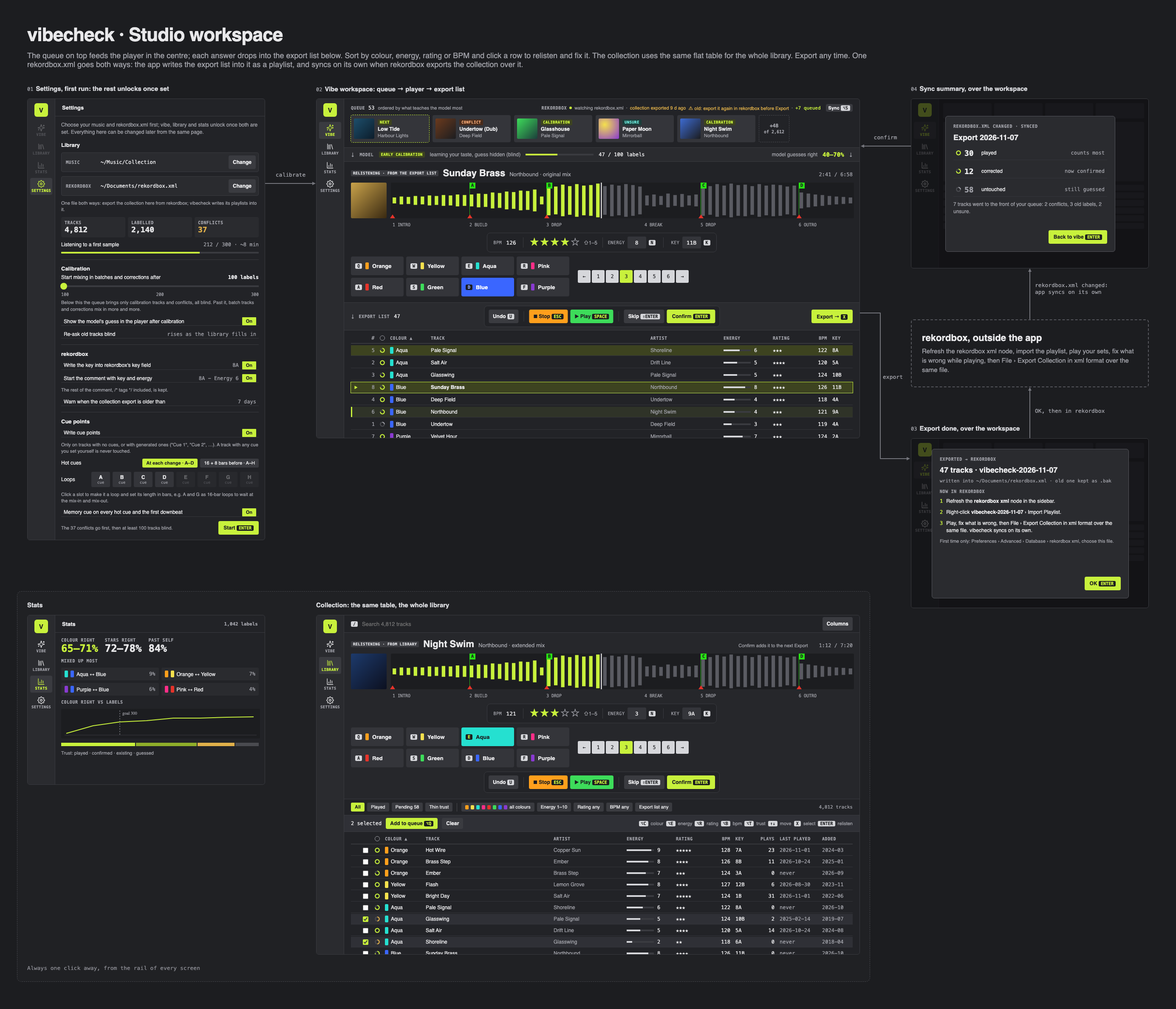
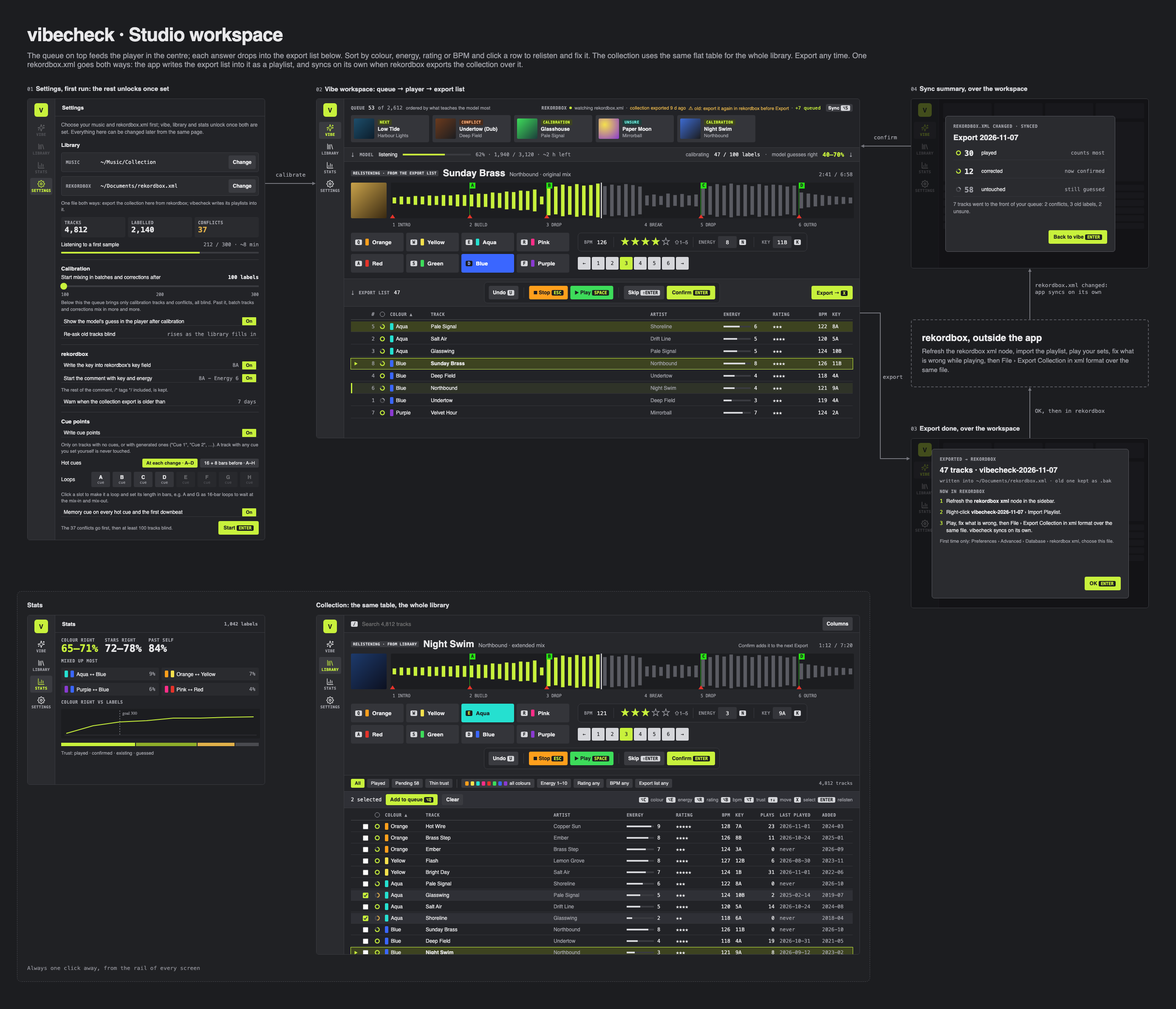
app: listening status line, meta tray beside keys, part labels fit
- model strip: background listening with bar, counts, time left; same line in console
- queue count in header (200 of N), +N box gone
- meta tray beside colour keys, parts below it
- part labels shrink to number or hide when too close
- queue card outlined only while in player

Changed region(s): [[0.2796, 0.6852, 0.7146, 0.9655], [0.2796, 0.218, 0.7457, 0.436]]

diff --git a/docs/ui/workspace.html b/docs/ui/workspace.html
@@ -160,18 +160,18 @@ a{color:#c8f13c}a:hover{color:#e0ff7a}
 <div class="main">
 
 <div style="padding: 12px 16px; border-bottom: 1px solid #3a3b40; display: flex; flex-direction: column; gap: 8px">
-<div style="display: flex; align-items: center; gap: 8px"><span class="lbl">Queue</span><span class="mono" style="font-size: 12px">53</span><span style="font-size: 11px; color: #a0a1a8">ordered by what teaches the model most</span><span style="margin-left: auto; display: flex; align-items: center; gap: 6px; font-size: 11px"><span class="lbl">rekordbox</span><span style="width: 6px; height: 6px; border-radius: 50%; background: #c8f13c"></span><span style="color: #a0a1a8">watching rekordbox.xml</span><span style="color: #a0a1a8">·</span><span style="color: #e0b04a">collection exported 9 d ago</span><span style="color: #e0b04a">⚠ old: export it again in rekordbox before Export</span><span style="color: #a0a1a8">·</span><span class="mono" style="color: #c8f13c">+7 queued</span><button class="btn" style="margin-left: 6px; min-height: 18px; padding: 1px 6px; font-size: 11px">Sync <span class="kbd">⌥S</span></button></span></div>
+<div style="display: flex; align-items: center; gap: 8px"><span class="lbl">Queue</span><span class="mono" style="font-size: 12px">53</span><span class="mono" style="font-size: 12px; color: #a0a1a8">of 2,612</span><span style="font-size: 11px; color: #a0a1a8">ordered by what teaches the model most</span><span style="margin-left: auto; display: flex; align-items: center; gap: 6px; font-size: 11px"><span class="lbl">rekordbox</span><span style="width: 6px; height: 6px; border-radius: 50%; background: #c8f13c"></span><span style="color: #a0a1a8">watching rekordbox.xml</span><span style="color: #a0a1a8">·</span><span style="color: #e0b04a">collection exported 9 d ago</span><span style="color: #e0b04a">⚠ old: export it again in rekordbox before Export</span><span style="color: #a0a1a8">·</span><span class="mono" style="color: #c8f13c">+7 queued</span><button class="btn" style="margin-left: 6px; min-height: 18px; padding: 1px 6px; font-size: 11px">Sync <span class="kbd">⌥S</span></button></span></div>
 <div style="display: flex; gap: 8px">
-<div class="q qc" style="outline: 1px dashed #c8f13c"><div class="cov" style="background: linear-gradient(135deg, #1d4e6b, #0c1d2b)"></div><div class="qt"><span class="tag t-cal" style="align-self: flex-start">next</span><span class="qn">Low Tide</span><span class="qa">Harbour Lights</span></div></div>
+<div class="q qc"><div class="cov" style="background: linear-gradient(135deg, #1d4e6b, #0c1d2b)"></div><div class="qt"><span class="tag t-cal" style="align-self: flex-start">next</span><span class="qn">Low Tide</span><span class="qa">Harbour Lights</span></div></div>
 <div class="q qc"><div class="cov" style="background: linear-gradient(135deg, #6b3a1d, #1c1d20)"></div><div class="qt"><span class="tag t-con" style="align-self: flex-start">conflict</span><span class="qn">Undertow (Dub)</span><span class="qa">Deep Field</span></div></div>
 <div class="q qc"><div class="cov" style="background: linear-gradient(135deg, #3ddc5a, #1c3e3b)"></div><div class="qt"><span class="tag t-cal" style="align-self: flex-start">calibration</span><span class="qn">Glasshouse</span><span class="qa">Pale Signal</span></div></div>
 <div class="q qc"><div class="cov" style="background: radial-gradient(circle at 30% 30%, #f4e04d, #8a3ad1)"></div><div class="qt"><span class="tag t-uns" style="align-self: flex-start">unsure</span><span class="qn">Paper Moon</span><span class="qa">Mirrorball</span></div></div>
 <div class="q qc"><div class="cov" style="background: linear-gradient(135deg, #3d6bd1, #1c1d20)"></div><div class="qt"><span class="tag t-cal" style="align-self: flex-start">calibration</span><span class="qn">Night Swim</span><span class="qa">Northbound</span></div></div>
-<div class="q" style="width: 72px; align-items: center; justify-content: center; background: #222327; border: 1px dashed #4a4b50; color: #a0a1a8; flex-direction: column; line-height: 1.3">+48<span class="mono" style="font-size: 10px">of 2,612</span></div>
+
 </div>
 </div>
 
-<div style="padding: 8px 16px; border-bottom: 1px solid #3a3b40; display: flex; align-items: center; gap: 12px; background: #2a2b2f"><span style="font-size: 13px; color: #a0a1a8">↓</span><span class="lbl">Model</span><span class="tag t-cal">early calibration</span><span style="font-size: 12px; color: #a0a1a8">learning your taste, guess hidden (blind)</span><div style="width: 160px; height: 4px; background: #3a3b40; display: flex"><div style="width: 47%; background: #c8f13c"></div></div><span class="mono" style="font-size: 12px">47 / 100 labels</span><span style="font-size: 12px; color: #a0a1a8; margin-left: auto">model guesses right</span><b class="mono" style="font-size: 14px; color: #c8f13c">40–70%</b><span style="font-size: 13px; color: #a0a1a8">↓</span></div>
+<div style="padding: 8px 16px; border-bottom: 1px solid #3a3b40; display: flex; align-items: center; gap: 12px; background: #2a2b2f"><span style="font-size: 13px; color: #a0a1a8">↓</span><span class="lbl">Model</span><span style="font-size: 12px">listening</span><div style="width: 160px; height: 4px; background: #3a3b40; display: flex"><div style="width: 62%; background: #c8f13c"></div></div><span class="mono" style="font-size: 12px; color: #a0a1a8">62% · 1,940 / 3,120 · ~2 h left</span><span style="font-size: 12px; color: #a0a1a8; margin-left: auto">calibrating</span><span class="mono" style="font-size: 12px">47 / 100 labels</span><span style="font-size: 12px; color: #a0a1a8">·</span><span style="font-size: 12px; color: #a0a1a8">model guesses right</span><b class="mono" style="font-size: 14px; color: #c8f13c">40–70%</b><span style="font-size: 13px; color: #a0a1a8">↓</span></div>
 
 <div style="padding: 14px 16px; display: flex; flex-direction: column; gap: 10px; border-bottom: 1px solid #3a3b40">
 <div style="display: flex; align-items: baseline; gap: 10px"><span class="tag t-re" style="align-self: center">relistening · from the export list</span><span style="font-size: 22px; font-weight: 800">Sunday Brass</span><span style="font-size: 13px; color: #a0a1a8">Northbound · original mix</span><span class="mono" style="font-size: 12px; color: #a0a1a8; margin-left: auto">2:41 / 6:58</span></div>
@@ -179,7 +179,6 @@ a{color:#c8f13c}a:hover{color:#e0ff7a}
 <div style="position: relative"><svg width="1090" height="84" viewBox="0 0 528 72" preserveAspectRatio="none" role="img" aria-label="Waveform, playhead in the first drop" style="display: block; background: #1c1d20; border-radius: 3px"><path d="M4 30V42M12 28V44M20 29V43M28 27V45M36 28V44M44 26V46M52 27V45M60 25V47M68 26V46M76 24V48M84 25V47M92 24V48M100 22V50M108 23V49M116 20V52M124 21V51M132 18V54M140 19V53M148 16V56M156 17V55M164 14V58M172 28V44M180 6V66M188 8V64M196 4V68M204 7V65M212 3V69M220 6V66M228 5V67M236 2V70" stroke="#c8f13c" stroke-width="4"/><path d="M244 7V65M252 4V68M260 6V66M268 3V69M276 5V67M284 8V64M292 26V46M300 24V48M308 27V45M316 22V50M324 25V47M332 23V49M340 26V46M348 24V48M356 5V67M364 7V65M372 3V69M380 6V66M388 2V70M396 5V67M404 4V68M412 7V65M420 3V69M428 6V66M436 4V68M444 5V67M452 8V64M460 6V66M468 20V52M476 22V50M484 24V48M492 25V47M500 27V45M508 28V44M516 29V43M524 30V42" stroke="#5a5b62" stroke-width="4"/><path d="M240 0V72" stroke="#ffffff" stroke-width="1"/><path d="M0 0V72M88 0V72M176 0V72M288 0V72M352 0V72M464 0V72" stroke="#1c1d20" stroke-width="1"/></svg><div aria-label="Cue points" style="position: absolute; inset: 0; pointer-events: none"><span style="position: absolute; left: -2px; top: 75px; width: 0; height: 0; border-left: 6px solid transparent; border-right: 6px solid transparent; border-bottom: 9px solid #e5332a"></span><span style="position: absolute; left: 185px; top: 14px; width: 1px; height: 70px; background: rgba(40,226,20,.8)"></span><span style="position: absolute; left: 185px; top: 0; width: 14px; height: 14px; background: #28e214; color: #1c1d20; font: 600 11px 'IBM Plex Mono', monospace; line-height: 14px; text-align: center">A</span><span style="position: absolute; left: 180px; top: 75px; width: 0; height: 0; border-left: 6px solid transparent; border-right: 6px solid transparent; border-bottom: 9px solid #e5332a"></span><span style="position: absolute; left: 366px; top: 14px; width: 1px; height: 70px; background: rgba(40,226,20,.8)"></span><span style="position: absolute; left: 366px; top: 0; width: 14px; height: 14px; background: #28e214; color: #1c1d20; font: 600 11px 'IBM Plex Mono', monospace; line-height: 14px; text-align: center">B</span><span style="position: absolute; left: 361px; top: 75px; width: 0; height: 0; border-left: 6px solid transparent; border-right: 6px solid transparent; border-bottom: 9px solid #e5332a"></span><span style="position: absolute; left: 729px; top: 14px; width: 1px; height: 70px; background: rgba(40,226,20,.8)"></span><span style="position: absolute; left: 729px; top: 0; width: 14px; height: 14px; background: #28e214; color: #1c1d20; font: 600 11px 'IBM Plex Mono', monospace; line-height: 14px; text-align: center">C</span><span style="position: absolute; left: 724px; top: 75px; width: 0; height: 0; border-left: 6px solid transparent; border-right: 6px solid transparent; border-bottom: 9px solid #e5332a"></span><span style="position: absolute; left: 960px; top: 14px; width: 1px; height: 70px; background: rgba(40,226,20,.8)"></span><span style="position: absolute; left: 960px; top: 0; width: 14px; height: 14px; background: #28e214; color: #1c1d20; font: 600 11px 'IBM Plex Mono', monospace; line-height: 14px; text-align: center">D</span><span style="position: absolute; left: 955px; top: 75px; width: 0; height: 0; border-left: 6px solid transparent; border-right: 6px solid transparent; border-bottom: 9px solid #e5332a"></span></div></div>
 <div class="mono" style="position: relative; height: 14px; font-size: 10px; color: #a0a1a8"><span style="position: absolute; left: 4px">1 INTRO</span><span style="position: absolute; left: 185px">2 BUILD</span><span style="position: absolute; left: 366px">3 DROP</span><span style="position: absolute; left: 597px">4 BREAK</span><span style="position: absolute; left: 729px">5 DROP</span><span style="position: absolute; left: 960px">6 OUTRO</span></div>
 </div></div>
-<div style="display: flex; justify-content: center"><div style="display: inline-flex; align-items: center; padding: 8px 14px; background: #222327; border: 1px solid #3a3b40; border-radius: 8px"><div style="display: flex; align-items: center; gap: 4px"><span style="font: 500 10px 'IBM Plex Mono', monospace; letter-spacing: .06em; color: #a0a1a8">BPM</span><span class="mono" style="font-size: 13px; margin-left: 6px">126</span><span style="width: 1px; height: 24px; background: #3a3b40; margin: 0 12px"></span><span style="font-size: 20px; line-height: 1; color: #c8f13c">★</span><span style="font-size: 20px; line-height: 1; color: #c8f13c">★</span><span style="font-size: 20px; line-height: 1; color: #c8f13c">★</span><span style="font-size: 20px; line-height: 1; color: #c8f13c">★</span><span style="font-size: 20px; line-height: 1; color: #a0a1a8">☆</span><span style="font-size: 12px; color: #a0a1a8; margin-left: 6px">⇧1–5</span></div><span style="width: 1px; height: 24px; background: #3a3b40; margin: 0 12px"></span><div style="display: flex; align-items: center; gap: 6px"><span style="font: 500 10px 'IBM Plex Mono', monospace; letter-spacing: .06em; color: #a0a1a8">ENERGY</span><span class="mono" style="display: inline-flex; align-items: center; justify-content: center; min-width: 44px; height: 28px; border-radius: 3px; background: #34353a; font-size: 13px">8</span><span class="kbd">N</span><span style="width: 1px; height: 24px; background: #3a3b40; margin: 0 12px"></span><span style="font: 500 10px 'IBM Plex Mono', monospace; letter-spacing: .06em; color: #a0a1a8">KEY</span><span class="mono" style="display: inline-flex; align-items: center; justify-content: center; min-width: 44px; height: 28px; border-radius: 3px; background: #34353a; font-size: 13px">11B</span><span class="kbd">K</span></div></div></div>
 <div style="display: flex; gap: 20px; align-items: flex-start">
 <div style="display: grid; grid-template-columns: repeat(4, 124px); gap: 6px">
 <div class="key"><span class="kbd">Q</span><span class="dot" style="background: #ff9f1c"></span>Orange</div>
@@ -191,7 +190,7 @@ a{color:#c8f13c}a:hover{color:#e0ff7a}
 <div class="key" style="background: #3a66ff; color: #ffffff"><span class="kbdd" style="color: #8fa8ff">D</span>Blue</div>
 <div class="key"><span class="kbd">F</span><span class="dot" style="background: #8a3ad1"></span>Purple</div>
 </div>
-<div style="flex: 1; display: flex; align-items: center; align-self: center"><span style="display: inline-flex; gap: 3px; margin: 0"><span style="display: inline-flex; align-items: center; justify-content: center; width: 30px; height: 30px; border-radius: 3px; font: 500 12px 'IBM Plex Mono', monospace; color: #1c1d20; background: #d6d7db">←</span><span style="display: inline-flex; align-items: center; justify-content: center; width: 30px; height: 30px; border-radius: 3px; font: 500 12px 'IBM Plex Mono', monospace; color: #1c1d20; background: #d6d7db">1</span><span style="display: inline-flex; align-items: center; justify-content: center; width: 30px; height: 30px; border-radius: 3px; font: 500 12px 'IBM Plex Mono', monospace; color: #1c1d20; background: #d6d7db">2</span><span style="display: inline-flex; align-items: center; justify-content: center; width: 30px; height: 30px; border-radius: 3px; font: 500 12px 'IBM Plex Mono', monospace; color: #1c1d20; background: #c8f13c">3</span><span style="display: inline-flex; align-items: center; justify-content: center; width: 30px; height: 30px; border-radius: 3px; font: 500 12px 'IBM Plex Mono', monospace; color: #1c1d20; background: #d6d7db">4</span><span style="display: inline-flex; align-items: center; justify-content: center; width: 30px; height: 30px; border-radius: 3px; font: 500 12px 'IBM Plex Mono', monospace; color: #1c1d20; background: #d6d7db">5</span><span style="display: inline-flex; align-items: center; justify-content: center; width: 30px; height: 30px; border-radius: 3px; font: 500 12px 'IBM Plex Mono', monospace; color: #1c1d20; background: #d6d7db">6</span><span style="display: inline-flex; align-items: center; justify-content: center; width: 30px; height: 30px; border-radius: 3px; font: 500 12px 'IBM Plex Mono', monospace; color: #1c1d20; background: #d6d7db">→</span></span></div>
+<div style="display: flex; flex-direction: column; gap: 6px"><div style="height: 44px; display: flex; align-items: center"><div style="display: inline-flex; align-items: center; box-sizing: border-box; height: 44px; padding: 0 14px; background: #222327; border: 1px solid #3a3b40; border-radius: 8px"><div style="display: flex; align-items: center; gap: 4px"><span style="font: 500 10px 'IBM Plex Mono', monospace; letter-spacing: .06em; color: #a0a1a8">BPM</span><span class="mono" style="font-size: 13px; margin-left: 6px">126</span><span style="width: 1px; height: 24px; background: #3a3b40; margin: 0 12px"></span><span style="font-size: 20px; line-height: 1; color: #c8f13c">★</span><span style="font-size: 20px; line-height: 1; color: #c8f13c">★</span><span style="font-size: 20px; line-height: 1; color: #c8f13c">★</span><span style="font-size: 20px; line-height: 1; color: #c8f13c">★</span><span style="font-size: 20px; line-height: 1; color: #a0a1a8">☆</span><span style="font-size: 12px; color: #a0a1a8; margin-left: 6px">⇧1–5</span></div><span style="width: 1px; height: 24px; background: #3a3b40; margin: 0 12px"></span><div style="display: flex; align-items: center; gap: 6px"><span style="font: 500 10px 'IBM Plex Mono', monospace; letter-spacing: .06em; color: #a0a1a8">ENERGY</span><span class="mono" style="display: inline-flex; align-items: center; justify-content: center; min-width: 44px; height: 28px; border-radius: 3px; background: #34353a; font-size: 13px">8</span><span class="kbd">N</span><span style="width: 1px; height: 24px; background: #3a3b40; margin: 0 12px"></span><span style="font: 500 10px 'IBM Plex Mono', monospace; letter-spacing: .06em; color: #a0a1a8">KEY</span><span class="mono" style="display: inline-flex; align-items: center; justify-content: center; min-width: 44px; height: 28px; border-radius: 3px; background: #34353a; font-size: 13px">11B</span><span class="kbd">K</span></div></div></div><div style="height: 44px; display: flex; align-items: center"><span style="display: inline-flex; gap: 3px; margin: 0"><span style="display: inline-flex; align-items: center; justify-content: center; width: 30px; height: 30px; border-radius: 3px; font: 500 12px 'IBM Plex Mono', monospace; color: #1c1d20; background: #d6d7db">←</span><span style="display: inline-flex; align-items: center; justify-content: center; width: 30px; height: 30px; border-radius: 3px; font: 500 12px 'IBM Plex Mono', monospace; color: #1c1d20; background: #d6d7db">1</span><span style="display: inline-flex; align-items: center; justify-content: center; width: 30px; height: 30px; border-radius: 3px; font: 500 12px 'IBM Plex Mono', monospace; color: #1c1d20; background: #d6d7db">2</span><span style="display: inline-flex; align-items: center; justify-content: center; width: 30px; height: 30px; border-radius: 3px; font: 500 12px 'IBM Plex Mono', monospace; color: #1c1d20; background: #c8f13c">3</span><span style="display: inline-flex; align-items: center; justify-content: center; width: 30px; height: 30px; border-radius: 3px; font: 500 12px 'IBM Plex Mono', monospace; color: #1c1d20; background: #d6d7db">4</span><span style="display: inline-flex; align-items: center; justify-content: center; width: 30px; height: 30px; border-radius: 3px; font: 500 12px 'IBM Plex Mono', monospace; color: #1c1d20; background: #d6d7db">5</span><span style="display: inline-flex; align-items: center; justify-content: center; width: 30px; height: 30px; border-radius: 3px; font: 500 12px 'IBM Plex Mono', monospace; color: #1c1d20; background: #d6d7db">6</span><span style="display: inline-flex; align-items: center; justify-content: center; width: 30px; height: 30px; border-radius: 3px; font: 500 12px 'IBM Plex Mono', monospace; color: #1c1d20; background: #d6d7db">→</span></span></div></div>
 </div>
 </div>
 
@@ -290,7 +289,6 @@ a{color:#c8f13c}a:hover{color:#e0ff7a}
 <div style="position: relative"><svg width="1090" height="84" viewBox="0 0 528 72" preserveAspectRatio="none" role="img" aria-label="Waveform of Night Swim" style="display: block; background: #1c1d20; border-radius: 3px"><path d="M4 30V42M12 28V44M20 29V43M28 27V45M36 28V44M44 26V46M52 27V45M60 25V47M68 26V46M76 24V48M84 25V47M92 24V48M100 22V50M108 23V49M116 20V52M124 21V51M132 18V54M140 19V53M148 16V56M156 17V55M164 14V58M172 28V44M180 6V66M188 8V64M196 4V68M204 7V65M212 3V69M220 6V66M228 5V67M236 2V70" stroke="#c8f13c" stroke-width="4"/><path d="M244 7V65M252 4V68M260 6V66M268 3V69M276 5V67M284 8V64M292 26V46M300 24V48M308 27V45M316 22V50M324 25V47M332 23V49M340 26V46M348 24V48M356 5V67M364 7V65M372 3V69M380 6V66M388 2V70M396 5V67M404 4V68M412 7V65M420 3V69M428 6V66M436 4V68M444 5V67M452 8V64M460 6V66M468 20V52M476 22V50M484 24V48M492 25V47M500 27V45M508 28V44M516 29V43M524 30V42" stroke="#5a5b62" stroke-width="4"/><path d="M240 0V72" stroke="#ffffff" stroke-width="1"/><path d="M0 0V72M88 0V72M176 0V72M288 0V72M352 0V72M464 0V72" stroke="#1c1d20" stroke-width="1"/></svg><div aria-label="Cue points" style="position: absolute; inset: 0; pointer-events: none"><span style="position: absolute; left: -2px; top: 75px; width: 0; height: 0; border-left: 6px solid transparent; border-right: 6px solid transparent; border-bottom: 9px solid #e5332a"></span><span style="position: absolute; left: 185px; top: 14px; width: 1px; height: 70px; background: rgba(40,226,20,.8)"></span><span style="position: absolute; left: 185px; top: 0; width: 14px; height: 14px; background: #28e214; color: #1c1d20; font: 600 11px 'IBM Plex Mono', monospace; line-height: 14px; text-align: center">A</span><span style="position: absolute; left: 180px; top: 75px; width: 0; height: 0; border-left: 6px solid transparent; border-right: 6px solid transparent; border-bottom: 9px solid #e5332a"></span><span style="position: absolute; left: 366px; top: 14px; width: 1px; height: 70px; background: rgba(40,226,20,.8)"></span><span style="position: absolute; left: 366px; top: 0; width: 14px; height: 14px; background: #28e214; color: #1c1d20; font: 600 11px 'IBM Plex Mono', monospace; line-height: 14px; text-align: center">B</span><span style="position: absolute; left: 361px; top: 75px; width: 0; height: 0; border-left: 6px solid transparent; border-right: 6px solid transparent; border-bottom: 9px solid #e5332a"></span><span style="position: absolute; left: 729px; top: 14px; width: 1px; height: 70px; background: rgba(40,226,20,.8)"></span><span style="position: absolute; left: 729px; top: 0; width: 14px; height: 14px; background: #28e214; color: #1c1d20; font: 600 11px 'IBM Plex Mono', monospace; line-height: 14px; text-align: center">C</span><span style="position: absolute; left: 724px; top: 75px; width: 0; height: 0; border-left: 6px solid transparent; border-right: 6px solid transparent; border-bottom: 9px solid #e5332a"></span><span style="position: absolute; left: 960px; top: 14px; width: 1px; height: 70px; background: rgba(40,226,20,.8)"></span><span style="position: absolute; left: 960px; top: 0; width: 14px; height: 14px; background: #28e214; color: #1c1d20; font: 600 11px 'IBM Plex Mono', monospace; line-height: 14px; text-align: center">D</span><span style="position: absolute; left: 955px; top: 75px; width: 0; height: 0; border-left: 6px solid transparent; border-right: 6px solid transparent; border-bottom: 9px solid #e5332a"></span></div></div>
 <div class="mono" style="position: relative; height: 14px; font-size: 10px; color: #a0a1a8"><span style="position: absolute; left: 4px">1 INTRO</span><span style="position: absolute; left: 185px">2 BUILD</span><span style="position: absolute; left: 366px">3 DROP</span><span style="position: absolute; left: 597px">4 BREAK</span><span style="position: absolute; left: 729px">5 DROP</span><span style="position: absolute; left: 960px">6 OUTRO</span></div>
 </div></div>
-<div style="display: flex; justify-content: center"><div style="display: inline-flex; align-items: center; padding: 8px 14px; background: #222327; border: 1px solid #3a3b40; border-radius: 8px"><div style="display: flex; align-items: center; gap: 4px"><span style="font: 500 10px 'IBM Plex Mono', monospace; letter-spacing: .06em; color: #a0a1a8">BPM</span><span class="mono" style="font-size: 13px; margin-left: 6px">121</span><span style="width: 1px; height: 24px; background: #3a3b40; margin: 0 12px"></span><span style="font-size: 20px; line-height: 1; color: #c8f13c">★</span><span style="font-size: 20px; line-height: 1; color: #c8f13c">★</span><span style="font-size: 20px; line-height: 1; color: #c8f13c">★</span><span style="font-size: 20px; line-height: 1; color: #a0a1a8">☆</span><span style="font-size: 20px; line-height: 1; color: #a0a1a8">☆</span><span style="font-size: 12px; color: #a0a1a8; margin-left: 6px">⇧1–5</span></div><span style="width: 1px; height: 24px; background: #3a3b40; margin: 0 12px"></span><div style="display: flex; align-items: center; gap: 6px"><span style="font: 500 10px 'IBM Plex Mono', monospace; letter-spacing: .06em; color: #a0a1a8">ENERGY</span><span class="mono" style="display: inline-flex; align-items: center; justify-content: center; min-width: 44px; height: 28px; border-radius: 3px; background: #34353a; font-size: 13px">3</span><span class="kbd">N</span><span style="width: 1px; height: 24px; background: #3a3b40; margin: 0 12px"></span><span style="font: 500 10px 'IBM Plex Mono', monospace; letter-spacing: .06em; color: #a0a1a8">KEY</span><span class="mono" style="display: inline-flex; align-items: center; justify-content: center; min-width: 44px; height: 28px; border-radius: 3px; background: #34353a; font-size: 13px">9A</span><span class="kbd">K</span></div></div></div>
 <div style="display: flex; gap: 20px; align-items: flex-start">
 <div style="display: grid; grid-template-columns: repeat(4, 124px); gap: 6px">
 <div class="key"><span class="kbd">Q</span><span class="dot" style="background: #ff9f1c"></span>Orange</div>
@@ -302,7 +300,7 @@ a{color:#c8f13c}a:hover{color:#e0ff7a}
 <div class="key"><span class="kbd">D</span><span class="dot" style="background: #3a66ff"></span>Blue</div>
 <div class="key"><span class="kbd">F</span><span class="dot" style="background: #8a3ad1"></span>Purple</div>
 </div>
-<div style="flex: 1; display: flex; align-items: center; align-self: center"><span style="display: inline-flex; gap: 3px; margin: 0"><span style="display: inline-flex; align-items: center; justify-content: center; width: 30px; height: 30px; border-radius: 3px; font: 500 12px 'IBM Plex Mono', monospace; color: #1c1d20; background: #d6d7db">←</span><span style="display: inline-flex; align-items: center; justify-content: center; width: 30px; height: 30px; border-radius: 3px; font: 500 12px 'IBM Plex Mono', monospace; color: #1c1d20; background: #d6d7db">1</span><span style="display: inline-flex; align-items: center; justify-content: center; width: 30px; height: 30px; border-radius: 3px; font: 500 12px 'IBM Plex Mono', monospace; color: #1c1d20; background: #d6d7db">2</span><span style="display: inline-flex; align-items: center; justify-content: center; width: 30px; height: 30px; border-radius: 3px; font: 500 12px 'IBM Plex Mono', monospace; color: #1c1d20; background: #c8f13c">3</span><span style="display: inline-flex; align-items: center; justify-content: center; width: 30px; height: 30px; border-radius: 3px; font: 500 12px 'IBM Plex Mono', monospace; color: #1c1d20; background: #d6d7db">4</span><span style="display: inline-flex; align-items: center; justify-content: center; width: 30px; height: 30px; border-radius: 3px; font: 500 12px 'IBM Plex Mono', monospace; color: #1c1d20; background: #d6d7db">5</span><span style="display: inline-flex; align-items: center; justify-content: center; width: 30px; height: 30px; border-radius: 3px; font: 500 12px 'IBM Plex Mono', monospace; color: #1c1d20; background: #d6d7db">6</span><span style="display: inline-flex; align-items: center; justify-content: center; width: 30px; height: 30px; border-radius: 3px; font: 500 12px 'IBM Plex Mono', monospace; color: #1c1d20; background: #d6d7db">→</span></span></div>
+<div style="display: flex; flex-direction: column; gap: 6px"><div style="height: 44px; display: flex; align-items: center"><div style="display: inline-flex; align-items: center; box-sizing: border-box; height: 44px; padding: 0 14px; background: #222327; border: 1px solid #3a3b40; border-radius: 8px"><div style="display: flex; align-items: center; gap: 4px"><span style="font: 500 10px 'IBM Plex Mono', monospace; letter-spacing: .06em; color: #a0a1a8">BPM</span><span class="mono" style="font-size: 13px; margin-left: 6px">121</span><span style="width: 1px; height: 24px; background: #3a3b40; margin: 0 12px"></span><span style="font-size: 20px; line-height: 1; color: #c8f13c">★</span><span style="font-size: 20px; line-height: 1; color: #c8f13c">★</span><span style="font-size: 20px; line-height: 1; color: #c8f13c">★</span><span style="font-size: 20px; line-height: 1; color: #a0a1a8">☆</span><span style="font-size: 20px; line-height: 1; color: #a0a1a8">☆</span><span style="font-size: 12px; color: #a0a1a8; margin-left: 6px">⇧1–5</span></div><span style="width: 1px; height: 24px; background: #3a3b40; margin: 0 12px"></span><div style="display: flex; align-items: center; gap: 6px"><span style="font: 500 10px 'IBM Plex Mono', monospace; letter-spacing: .06em; color: #a0a1a8">ENERGY</span><span class="mono" style="display: inline-flex; align-items: center; justify-content: center; min-width: 44px; height: 28px; border-radius: 3px; background: #34353a; font-size: 13px">3</span><span class="kbd">N</span><span style="width: 1px; height: 24px; background: #3a3b40; margin: 0 12px"></span><span style="font: 500 10px 'IBM Plex Mono', monospace; letter-spacing: .06em; color: #a0a1a8">KEY</span><span class="mono" style="display: inline-flex; align-items: center; justify-content: center; min-width: 44px; height: 28px; border-radius: 3px; background: #34353a; font-size: 13px">9A</span><span class="kbd">K</span></div></div></div><div style="height: 44px; display: flex; align-items: center"><span style="display: inline-flex; gap: 3px; margin: 0"><span style="display: inline-flex; align-items: center; justify-content: center; width: 30px; height: 30px; border-radius: 3px; font: 500 12px 'IBM Plex Mono', monospace; color: #1c1d20; background: #d6d7db">←</span><span style="display: inline-flex; align-items: center; justify-content: center; width: 30px; height: 30px; border-radius: 3px; font: 500 12px 'IBM Plex Mono', monospace; color: #1c1d20; background: #d6d7db">1</span><span style="display: inline-flex; align-items: center; justify-content: center; width: 30px; height: 30px; border-radius: 3px; font: 500 12px 'IBM Plex Mono', monospace; color: #1c1d20; background: #d6d7db">2</span><span style="display: inline-flex; align-items: center; justify-content: center; width: 30px; height: 30px; border-radius: 3px; font: 500 12px 'IBM Plex Mono', monospace; color: #1c1d20; background: #c8f13c">3</span><span style="display: inline-flex; align-items: center; justify-content: center; width: 30px; height: 30px; border-radius: 3px; font: 500 12px 'IBM Plex Mono', monospace; color: #1c1d20; background: #d6d7db">4</span><span style="display: inline-flex; align-items: center; justify-content: center; width: 30px; height: 30px; border-radius: 3px; font: 500 12px 'IBM Plex Mono', monospace; color: #1c1d20; background: #d6d7db">5</span><span style="display: inline-flex; align-items: center; justify-content: center; width: 30px; height: 30px; border-radius: 3px; font: 500 12px 'IBM Plex Mono', monospace; color: #1c1d20; background: #d6d7db">6</span><span style="display: inline-flex; align-items: center; justify-content: center; width: 30px; height: 30px; border-radius: 3px; font: 500 12px 'IBM Plex Mono', monospace; color: #1c1d20; background: #d6d7db">→</span></span></div></div>
 </div>
 <div style="display: flex; justify-content: center"><div style="display: inline-flex; align-items: center; gap: 6px; padding: 8px 10px; background: #222327; border: 1px solid #3a3b40; border-radius: 8px"><button class="btn">Undo <span class="kbd">U</span></button><span style="width: 1px; height: 24px; background: #3a3b40; margin: 0 6px"></span><button class="btn" style="background: #ff9f1c; color: #1c1d20"><svg width="10" height="10" viewBox="0 0 10 10" style="vertical-align: -1px"><rect x="1" y="1" width="8" height="8" fill="#1c1d20"/></svg> Stop <span class="kbdd">ESC</span></button><button class="btn" style="background: #3ddc5a; color: #1c1d20"><svg width="10" height="10" viewBox="0 0 10 10" style="vertical-align: -1px"><path d="M1 0 10 5 1 10z" fill="#1c1d20"/></svg> Play <span class="kbdd">SPACE</span></button><span style="width: 1px; height: 24px; background: #3a3b40; margin: 0 6px"></span><button class="btn">Skip <span class="kbd">⇧ENTER</span></button><button class="btnp">Confirm <span class="kbdd">ENTER</span></button></div></div>
 </div>

diff --git a/core/src/embed.rs b/core/src/embed.rs
@@ -295,7 +295,8 @@ fn embed_with(
                 Err(_) => st.failed += 1,
             }
             let n = k + 1;
-            if last.elapsed().as_secs_f64() >= 15.0 || n == todo.len() {
+            // a bar for long runs (the CLI); the app's few at a time say nothing
+            if todo.len() > 50 && (last.elapsed().as_secs_f64() >= 15.0 || n == todo.len()) {
                 last = Instant::now();
                 let el = t0.elapsed().as_secs_f64();
                 let rate = n as f64 / el;

diff --git a/docs/ui/decisions.md b/docs/ui/decisions.md
@@ -97,9 +97,12 @@ screen: content dark; the rail, strips, toolbars and cards lighter; the
 waveform and charts darker still (`#1c1d20`); dialogs and popups unchanged.
 
 1. **Queue** (dark). Cards show a 48 px cover, the tag, the title in bold and
-   the artist in grey. The queue holds the next 200, rebuilt as the model learns; the
-   last card says how many more are queued and how many could be asked in
-   all ("+197 of 8,412": tracks listened to and not labelled by you). Tags: next, conflict, calibration, unsure, re-ask, old
+   the artist in grey. The first card is outlined only while its track is in the
+   player, not while you relisten to the export list (the user). The queue holds the next 200, rebuilt as the model learns; its
+   title line says how many are queued and how many could be asked in all
+   ("Queue 200 of 8,412": tracks listened to and not labelled by you). That was a
+   "+197 of 8,412" box after the last card; moved up so the row fits one more card
+   (the user). Tags: next, conflict, calibration, unsure, re-ask, old
    label. The queue is ordered by what teaches the model most.
 2. **rekordbox widget**, one line at the right of the queue's title line
    ("Queue 53 ordered by …"), because it is where the queue's tracks come
@@ -113,14 +116,20 @@ waveform and charts darker still (`#1c1d20`); dialogs and popups unchanged.
    exports.
 3. **Model strip** (light), between the queue and the player, because the tracks
    pass through the model. It shows:
-   - "early calibration" plus "learning your taste, guess hidden (blind)";
-   - progress, e.g. "47 / 100 labels";
-   - "model guesses right 40–70%", always shown as a range, so the user sees
-     everything from the start.
+   - at the left, what it does in the background, as one line the console
+     prints too (at most once a minute): "listening ▬▬▬ 62% · 1,940 / 3,120 ·
+     ~2 h left", "listening off …" or "all 3,120 heard". Only tracks it has
+     heard can be asked about, so how far along it is and how long it will take
+     is what is worth knowing (the user). The "early calibration" / "mixing
+     in" tags and their explanations were dropped: not useful;
+   - at the right, the labels ("calibrating 47 / 100 labels" below the
+     threshold, else "1,119 labels") and "model guesses right 40–70%", always
+     shown as a range, so the user sees everything from the start.
 4. **Player** (dark). Call it "player", never "card". It holds:
    - the track's **cover in front of the waveform**, as tall as the peaks (a
      gradient in the track's colours when the file has none);
-   - the full-track waveform with section labels, click and jump, and the
+   - the full-track waveform with section labels (parts too close together
+     keep only their number, or no label, rather than overlap), click and jump, and the
      **cue points drawn as rekordbox draws them**, so it is clear where they
      will end up: lettered hot cues along the top (green cue, orange loop with
      its length shaded), red memory-cue triangles along the bottom. They are
@@ -129,15 +138,16 @@ waveform and charts darker still (`#1c1d20`); dialogs and popups unchanged.
      export";
    - the colour keys in **two rows** (QWER light / ASDF dark), which the user
      likes;
-   - beside the colour keys, centred on them, **the parts of the track**: ←
+   - beside the colour keys, level with the bottom row, **the parts of the track**: ←
      then a button per part numbered as on the waveform, the part playing
      lit, →;
-   - two centred trays (dark, thin border, rounded), each on its own level,
-     so the groups read at a glance (the user asked for both; before, what
-     you say sat level with the light keys and the controls on the two
-     sides):
-     - under the waveform, above the colour keys, **what you say about the
-       track**: the **BPM** from rekordbox's grid
+   - two trays (dark, thin border, rounded), so the groups read at a glance
+     (the user asked for both; before, what you say sat level with the light
+     keys and the controls on the two sides):
+     - beside the colour keys, level with the top row (above the parts), **what you say about the
+       track**. It had a row of its own between the waveform and the keys; moved up
+       beside them for space (the user: the export list gets two more rows).
+       The **BPM** from rekordbox's grid
        first (read only, so no box; moved here from beside the time), stars
        (five ★/☆, filled up to the rating; click or ⇧1–5), **Energy** and **Key**,
        each a value that pops out a picker (the user preferred this to − and
@@ -148,7 +158,7 @@ waveform and charts darker still (`#1c1d20`); dialogs and popups unchanged.
        that. A corrected value turns lime. The player shows what an export
        would write: your correction, else the analysis. Thin dividers between
        BPM | stars | energy | key, as in the controls tray (the user);
-     - **the main controls**, on vibe on the export list's strip, centred,
+     - **the main controls**, centred: on vibe on the export list's strip,
        with Export staying at its right end (the user: it frees a row for the
        list); in the collection under the colour keys: **Undo** (U), a button
        of its own, leftmost | Stop (ESC) and Play/Pause (SPACE) | Skip or
